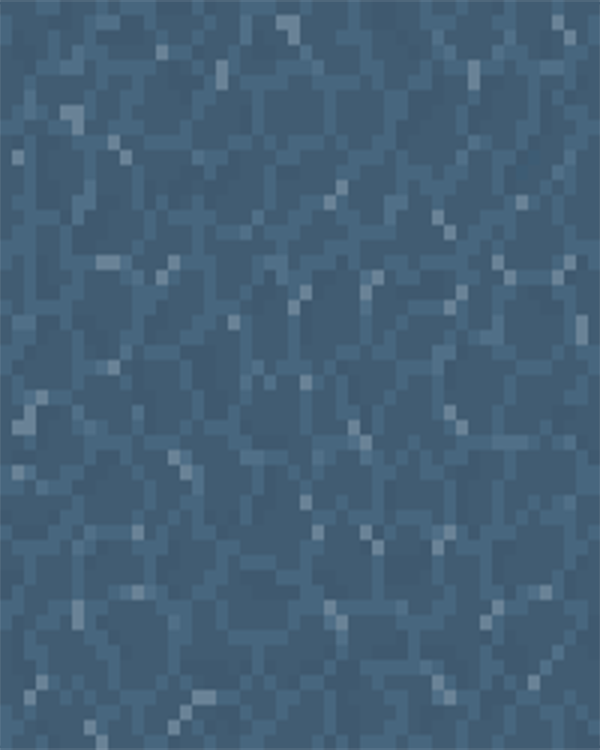
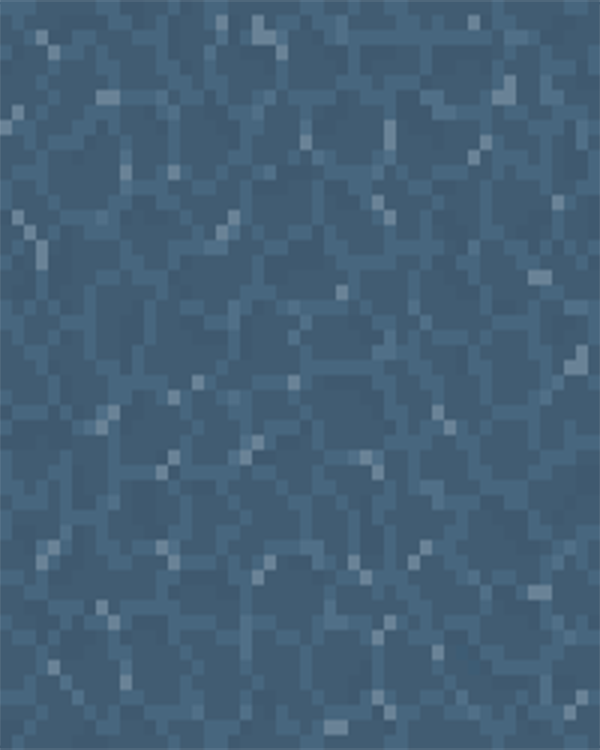
Asset do Menu
Pequena animação do menu principal

diff --git a/main.py b/main.py
@@ -4,20 +4,17 @@ from objects import *
 from settings import *
 from menu import *
 
-ticks = 0
-
 pygame.init()
 
 WINDOW = pygame.display.set_mode(SCREEN_SIZE)
 pygame.display.set_caption(WINDOW_NAME)
 
 
-def draw(sprites: pygame.sprite.Group, gas_bar: Bar, temp_bar: Bar, score: int):
+def draw(sprites: pygame.sprite.Group, gas_bar: Bar, temp_bar: Bar):
     """
     :param sprites: Group of stripes
     :param gas_bar: The gas bar that will be drawn
     :param temp_bar: The temp_bar that will be drawn
-    :param score: The current score
     This function renders all sprites, bars and borders.
     """
     WINDOW.fill(BACKGROUND_COLOR)
@@ -35,9 +32,6 @@ def draw(sprites: pygame.sprite.Group, gas_bar: Bar, temp_bar: Bar, score: int):
         ),
         BORDER_WIDTH,
     )
-
-    score_text = FONT.render(str(round(score)), True, WHITE_COLOR)
-    WINDOW.blit(score_text, (SCREEN_SIZE[0] - score_text.get_width() - 20, 20))
 
     gas_bar.draw(WINDOW)
     temp_bar.draw(WINDOW)
@@ -153,10 +147,8 @@ def game_loop():
     bullets = pygame.sprite.Group()
     missiles = pygame.sprite.Group()
 
-    menu = Menu("assets/menu.png")
-    gameover = GameOver("assets/gameover.png")
-
-    score = 0
+    menu = Menu()
+    gameover = GameOver()
 
     bg = Object(
         BACKGROUND_ASSET,
@@ -178,7 +170,6 @@ def game_loop():
     while loop:
         clock.tick(FPS)
 
-
         for event in pygame.event.get():
 
             if event.type == pygame.QUIT:
@@ -189,9 +180,6 @@ def game_loop():
                 menu.events(event)
 
             elif not change_scene:
-
-                score += SCORE_PER_SECOND / FPS
-                print(round(score))
 
                 if event.type == pygame.MOUSEMOTION:
                     plane.x = pygame.mouse.get_pos()[0] - plane.rect.width / 2
@@ -216,6 +204,8 @@ def game_loop():
 
         if not menu.change_scene:
             menu.all_sprites.draw(WINDOW)
+            menu.key_group.draw(WINDOW)
+            menu.animation()
 
         elif not change_scene:
             generate_item(Object, GAS_ASSET, GAS_SPAWN_CHANCE, gas_cans, sprites)
@@ -314,11 +304,10 @@ def game_loop():
 
             gas_bar.percentage = plane.gas
             temp_bar.percentage = plane.temperature
-            draw(sprites, gas_bar, temp_bar, score)
+            draw(sprites, gas_bar, temp_bar)
 
         elif not gameover.change_scene:
             gameover.all_sprites.draw(WINDOW)
-            score = 0
 
         else:
             menu.change_scene = False

diff --git a/menu.py b/menu.py
@@ -1,11 +1,41 @@
 import pygame
 from objects import Object
+from settings import *
 
 
 class Menu:
-    def __init__(self, image):
+    def __init__(self):
         self.all_sprites = pygame.sprite.Group()
-        self.image = Object(image, 0, 0, self.all_sprites)
+        self.key_group = pygame.sprite.Group()
+        self.image = Object(MENU_ASSET, 0, 0, self.all_sprites)
+        self.key = Object(KEY_ASSET, 0, 600, self.key_group)
+        self.menu_water = Object(MENU_WATER, 0, 550, self.all_sprites)
+        self.change_scene = False
+        self.tick = 0
+
+    def draw(self, window):
+        self.all_sprites.draw(window)
+        self.key_group.draw(window)
+
+    def animation(self):
+        self.tick += 1
+        if self.tick <= 45:
+            self.key = Object(KEY_ASSET, 0, 600, self.key_group)
+        else:
+            if self.tick > 90:
+                self.tick = 0
+            self.key_group.empty()
+
+    def events(self, event):
+        if event.type == pygame.KEYDOWN:
+            if event.key == pygame.K_RETURN:
+                self.change_scene = True
+
+
+class GameOver:
+    def __init__(self):
+        self.all_sprites = pygame.sprite.Group()
+        self.image = Object(GAMEOVER_ASSET, 0, 0, self.all_sprites)
         self.change_scene = False
 
     def draw(self, window):
@@ -15,8 +45,3 @@ class Menu:
         if event.type == pygame.KEYDOWN:
             if event.key == pygame.K_RETURN:
                 self.change_scene = True
-
-
-class GameOver(Menu):
-    def __init__(self, image):
-        super().__init__(image)

diff --git a/settings.py b/settings.py
@@ -1,6 +1,5 @@
 import os
 import pygame
-pygame.font.init()
 
 
 # Cores
@@ -21,7 +20,6 @@ FPS = 60
 MOVEMENT_SPEED = 10
 SCROLL_SPEED = 5
 BULLETS_SPEED = 10
-SCORE_PER_SECOND = 2
 
 GAS_SPAWN_CHANCE = 5  # (0-1000)
 GAS_PER_CAN = 0.1  # (0-1)
@@ -39,9 +37,6 @@ MISSILE_SPAWN_CHANCE = 5  # (0-1000)
 MISSILE_PER_CAN = 0.1  # (0-1)
 MISSILE_CONS_PER_FRAME = 0.0005  # (0-1)
 
-FONT_SIZE = 20
-FONT = pygame.font.SysFont('Comic Sans MS', 20)
-
 # Assets
 GAS_ASSET = os.path.join("assets", "gas.png")
 PLANE_ASSET = os.path.join("assets", "plane.png")
@@ -50,5 +45,7 @@ ENEMY_ASSET = os.path.join("assets", "enemy.png")
 BULLET_ASSET = os.path.join("assets", "bullet.png")
 BACKGROUND_ASSET = os.path.join("assets", "bg1.png")
 MENU_ASSET = os.path.join("assets", "menu.png")
+KEY_ASSET = os.path.join("assets", "key.png")
+MENU_WATER = os.path.join("assets", "menu_water.png")
 GAMEOVER_ASSET = os.path.join("assets", "gameover.png")
 MISSILE_ASSET = os.path.join("assets", "missile.png")
